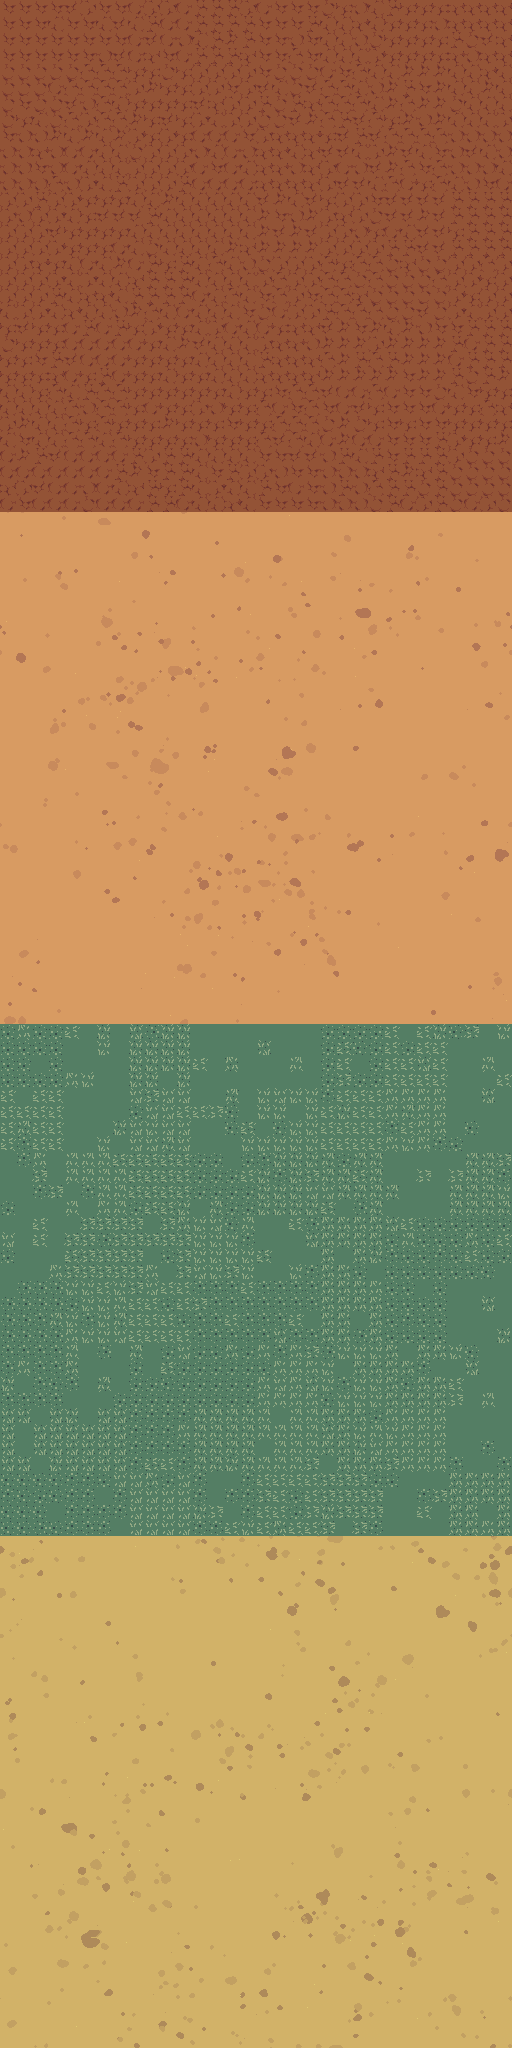
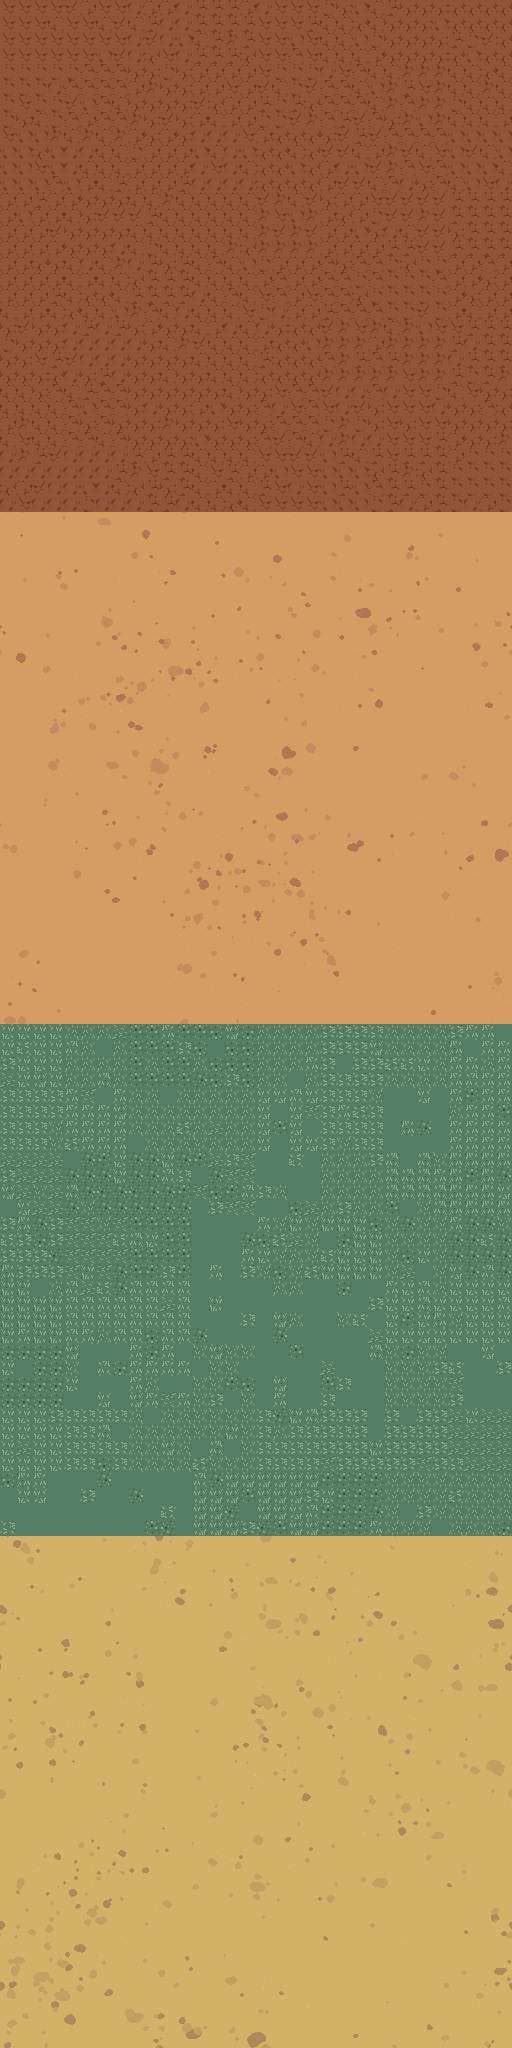
Survey every pack for ground before settling on grass and sand
Grass and sand were picked from the three packs I happened to open. This scans
all 56: each PNG reduced to its native scale, cut on a 16px grid, every opaque
cell classified by hue and measured for self-tiling.

The library is much narrower than the pack count suggests.

Grass exists once. topdownfarmlands, greenforest, greenvillage and greendungeon
all ship the same turf - the same flat rgb(84,126,100) under the same textured
variants. Of 57 distinct native grass cells in the whole library, 5 join
seamlessly. The rest are dungeon moss, cave crystal, or a brighter green in a
different palette that tiles as visible patches.

Sand exists once too. Only the desert pack has real sand ground. Everything else
the scan flagged was a UI panel, a book page, red roof tile, or the cobbled
Walls_street surface shared by seven town packs - which is real ground, but it
is pavement, and it belongs to TL.TOWN_FLOOR.

So the earlier choices were not a first-fit, they were the only fit. That is
worth knowing before buying more tileset packs: another one in this family adds
nothing, and only a pack in a different palette would widen the choice.

One real gain: greenforest holds a grass variant the farmlands sheet does not.
Grass goes from 4 cells to 5, and 24 baked variants to 30. The mosaic can now
draw cells from more than one sheet.

Two traps this walked into first, and both are now guarded in the tool rather
than left as lore:
[…]

diff --git a/tools/build_ground.py b/tools/build_ground.py
@@ -56,8 +56,12 @@ SEED = 20260909    # fixed, so rebuilds are byte-identical
 SOURCES = {
     "spots":     "PNG/spots.png",
     "farmland":  "All Tileset/16x16.png",
+    "forest":    "All Tileset/16x16.png",
     "farmyard":  "PNG/ground_grass_bricks.png",
 }
+# Two packs ship a file at the same path, so each is pinned to the pack folder
+# whose name contains this.
+SOURCE_PACK = {"farmland": "farmlands", "forest": "greenforest"}
 
 # The two tones in spots.png, measured off the sheet.
 TONE_DARK = (174, 138, 90)
@@ -74,15 +78,22 @@ TERRAINS = {
              "clusters": 22, "per": 13, "spread": 38, "loose": 78},
 
     # -- mosaic: interchangeable textured cells ---------------------------
-    # Grass: four variants of the same turf — bare, speckled, bladed, tufted.
-    "grass": {"kind": "mosaic", "sheet": "farmland",
-              "cells": [(0, 0), (0, 1), (0, 2), (0, 3)], "clump": 0.72,
-              "hue": 0, "sat": 1.00},
+    # Grass. Every pack delivered was surveyed for ground; the whole library
+    # holds exactly one outdoor turf, shared by the farmlands, green forest,
+    # green village and green dungeon tilesets. These six cells are all of it
+    # that joins seamlessly — the rest of the library's 57 native grass cells
+    # were measured and rejected. See docs/ART-PIPELINE.md.
+    "grass": {"kind": "mosaic",
+              "cells": [("farmland", 0, 0), ("farmland", 0, 1),
+                        ("farmland", 0, 2), ("farmland", 0, 3),
+                        ("forest", 0, 8)],    # one variant only greenforest has
+              "clump": 0.72, "hue": 0, "sat": 1.00},
     # Dirt: packed earth with small clumps. (14,10) and (21,7) are the same
     # cell in the sheet, so it is listed once.
-    "dirt":  {"kind": "mosaic", "sheet": "farmyard",
-              "cells": [(14, 9), (14, 10), (15, 9), (15, 10)], "clump": 0.65,
-              "hue": 0, "sat": 1.00},
+    "dirt":  {"kind": "mosaic",
+              "cells": [("farmyard", 14, 9), ("farmyard", 14, 10),
+                        ("farmyard", 15, 9), ("farmyard", 15, 10)],
+              "clump": 0.65, "hue": 0, "sat": 1.00},
 }
 
 
@@ -96,7 +107,10 @@ def locate(roots):
     """Find each source sheet under whichever of the given folders holds it."""
     found = {}
     for name, rel in SOURCES.items():
+        want = SOURCE_PACK.get(name)
         for root in roots:
+            if want and want not in root.name.lower():
+                continue
             hits = [p for p in root.rglob(Path(rel).name)
                     if p.as_posix().endswith(rel) and "__MACOSX" not in p.as_posix()]
             if hits:
@@ -106,8 +120,29 @@ def locate(roots):
     return found
 
 
+def check_native(name, im):
+    """Refuse a sheet that is an upscale of smaller art.
+
+    Most of these packs ship the same tileset at 1x/2x/3x/4x, and the RPG Maker
+    sheets are upscales too. Slicing one of those on a 16px grid yields cells
+    made of magnified pixels, which look right in isolation and wrong beside
+    everything else in the game. Checked, because it is invisible otherwise.
+    """
+    a = im.tobytes()
+    w, h = im.size
+    for k in (2, 3, 4):
+        if w % k or h % k:
+            continue
+        small = im.resize((w // k, h // k), Image.NEAREST)
+        if small.resize((w, h), Image.NEAREST).tobytes() == a:
+            raise SystemExit(
+                f"source '{name}' is an exact {k}x upscale of {w//k}x{h//k} art. "
+                f"Its 16px cells would be magnified pixels. Use the pack's "
+                f"native sheet instead.")
+
+
 def cell_of(sheet, rc):
-    r, c = rc
+    _, r, c = rc
     box = (c * CELL, r * CELL, (c + 1) * CELL, (r + 1) * CELL)
     if box[2] > sheet.size[0] or box[3] > sheet.size[1]:
         raise SystemExit(f"cell {rc} is outside the sheet ({sheet.size[0]//CELL}"
@@ -175,10 +210,38 @@ def tolerance(grain):
     return max(max(grain, 1.0) * 1.6, 8.0)
 
 
+# Two cells can join with a clean edge and still read as blocks, because what
+# shows is the difference in overall tone, not the join. A darker grass variant
+# passed the seam test at 11.88 against a tolerance of 12.36 and tiled as
+# obvious dark squares. So tone is checked separately from seams.
+TONE_SPREAD = 18.0
+
+
+def tone_gap(tiles, cells):
+    """Largest distance between any two cells' mean colours."""
+    means = [mean_rgb(t) for t in tiles]
+    worst, pair = 0.0, None
+    for i, a in enumerate(means):
+        for j, b in enumerate(means):
+            d = sum((a[k] - b[k]) ** 2 for k in range(3)) ** 0.5
+            if d > worst:
+                worst, pair = d, (cells[i], cells[j])
+    return worst, pair
+
+
 def build_variants(name, tiles, cells, strict):
     """The cells, plus every transform of them that keeps the set seamless."""
     grain = sum(mean_step(t) for t in tiles) / len(tiles)
     tol = tolerance(grain)
+
+    gap, gpair = tone_gap(tiles, cells)
+    if gap > TONE_SPREAD:
+        msg = (f"'{name}': cells {gpair[0]} and {gpair[1]} are {gap:.1f} apart "
+               f"in tone (limit {TONE_SPREAD:.0f}). They would tile as visible "
+               f"patches however clean the join is. Drop one, or pass --loose.")
+        if strict:
+            raise SystemExit(msg)
+        log(f"  !! {msg}")
 
     worst, pair = worst_seam(tiles)
     if worst > tol:
@@ -196,7 +259,8 @@ def build_variants(name, tiles, cells, strict):
         if worst_seam(trial)[0] <= tol:
             variants = trial
             kept.append(label)
-    log(f"  ok {name:6s} {len(tiles)} cells, seam {worst:5.2f} <= {tol:5.2f}"
+    log(f"  ok {name:6s} {len(tiles)} cells, seam {worst:5.2f} <= {tol:5.2f}, "
+        f"tone {gap:4.1f} <= {TONE_SPREAD:.0f}"
         f"  +{len(variants) - len(tiles):2d} from " +
         (", ".join(kept) if kept else "no transforms (edges too asymmetric)"))
     return variants
@@ -381,6 +445,8 @@ def main():
 
     log("sources:")
     sheets = locate(roots)
+    for name, im in sheets.items():
+        check_native(name, im)
 
     rng = random.Random(SEED)
     names = sorted(TERRAINS)
@@ -401,10 +467,14 @@ def main():
                     f"{len(pools['soft'])} soft blobs")
             ready.append((name, cfg, None))
         else:
-            if cfg["sheet"] not in sheets:
-                log(f"  -- {name}: no {SOURCES[cfg['sheet']]} supplied, skipping")
+            need = {rc[0] for rc in cfg["cells"]}
+            missing = need - set(sheets)
+            if missing:
+                log(f"  -- {name}: no " +
+                    ", ".join(SOURCES[m] for m in sorted(missing)) +
+                    " supplied, skipping")
                 continue
-            tiles = [cell_of(sheets[cfg["sheet"]], rc) for rc in cfg["cells"]]
+            tiles = [cell_of(sheets[rc[0]], rc) for rc in cfg["cells"]]
             ready.append((name, cfg, tiles))
     if not ready:
         sys.exit("No terrains could be built — check the pack folders given.")

diff --git a/docs/ART-PIPELINE.md b/docs/ART-PIPELINE.md
@@ -409,6 +409,34 @@ speckling, which is the one thing sand never looks like.
 
 `SEED` in the tool is fixed, so a rebuild is byte-identical.
 
+### Where the ground art came from
+
+Every one of the 56 delivered packs was scanned for grass and sand ground —
+each PNG reduced to its native scale, cut on a 16px grid, every fully-opaque
+cell classified by hue and measured for self-tiling. The result is worth
+recording because it is smaller than it looks:
+
+- **Grass: the library holds exactly one outdoor turf.** The farmlands, green
+  forest, green village and green dungeon tilesets all ship the *same* art —
+  flat base `rgb(84,126,100)` with the same textured variants over it. Of 57
+  distinct native grass cells across every pack, 5 join seamlessly; the rest are
+  dungeon moss, cave crystal, or a brighter green from a different palette that
+  tiles as visible patches. There is no second grass to choose between.
+- **Sand: the desert pack is the only true sand ground.** Everything else the
+  scan turned up as "sand" was a UI panel, a book page, red roof tile, or the
+  cobbled `Walls_street` surface shared by the town packs — that last one is
+  real ground, but it is pavement, and it belongs to `TL.TOWN_FLOOR`, not here.
+
+Two traps this scan walked into first, both worth knowing:
+
+- **Upscaled sheets.** Most packs ship the same tileset at 1×/2×/3×/4×, and the
+  RPG Maker `A5` sheets are upscales too — `RF_Green Forest_A5.png` is an exact
+  3× of 128×256 art. Slicing one on a 16px grid yields cells built from
+  magnified pixels that look fine alone and wrong beside everything else. A
+  first pass "found" 17 extra grass variants this way; all were artefacts. The
+  tool now refuses any source that is an exact upscale.
+- **Hue tests that are too loose.** `r >= g >= b` calls red roof tiles sand.
+
 ### Mutual seams, and why cells get flipped
 
 A mosaic is only safe if every cell joins every other cell invisibly. The tool
@@ -433,6 +461,18 @@ grass  4 cells, seam  2.85 <= 12.52   +20 from flip-h, flip-v, rot-90, rot-180, 
 Dirt's edges are asymmetric enough that flip-v and rot-180 push the join over
 tolerance, so they are dropped. That is measured per terrain, not assumed.
 
+### Tone, which is a separate test
+
+A clean join is not sufficient. Two cells can meet edge-to-edge perfectly and
+still read as blocks, because what shows at a glance is the difference in
+overall tone, not the join. A darker grass variant passed the seam test at
+11.88 against a tolerance of 12.36 and tiled as obvious dark squares — the exact
+grid artefact the mosaic exists to avoid.
+
+So the mean colours of a set are checked separately and must sit within 18 of
+each other. That cell measures 28.5 from its neighbours and is now rejected by
+name. The current sets: grass 11.5, dirt 1.4.
+
 ### Terrains
 
 Sand and dust are the same sand. The badlands is the same grains under a redder sun, so
@@ -442,7 +482,7 @@ instead of flattening it.
 
 | Name | Kind | Tile | Tone | Base |
 |---|---|---|---|---|
-| `grass` | mosaic | `TL.GRASS`, `TL.FLOWERS` | — | `#598166` — farmlands turf |
+| `grass` | mosaic | `TL.GRASS`, `TL.FLOWERS` | — | `#598166` — farmlands turf, plus one greenforest variant |
 | `dirt` | mosaic | `TL.DIRT` | — | `#8f4f35` — farmyard packed earth |
 | `sand` | scatter | `TL.SAND` | — | `#d2b268` — the desert pack's sand |
 | `dust` | scatter | `BL.DUSTFLOOR` | −13° hue, ×1.12 sat | `#d89b62` — orange-shifted |

diff --git a/docs/ASSET-INVENTORY.md b/docs/ASSET-INVENTORY.md
@@ -141,10 +141,34 @@ seamless, so `tools/build_ground.py` lays them as a random mosaic on one
 wrap-seamless texture, the same surface the sand uses. See `docs/ART-PIPELINE.md`.
 
 **Not yet: `TL.STONE` (9.4%), `TL.TOWN_FLOOR` (14.3%), `TL.ROAD`, `TL.WATER`.**
-Art exists for all four — the farm pack ships cobble and water, and
-`freepathandroad` ships five road styles. The terrain-*edge* sets in these packs
-stay unusable until the game has an autotiling concept; it currently has none,
-only a 4px colour blend on grass.
+Art exists for all four — the farm pack ships cobble and water,
+`freepathandroad` ships five road styles, and a `Walls_street` sheet with the
+same cobbled surface appears in seven town packs (tavern, chapel, guild hall,
+mage tower, blacksmith, nobles manor, training arena), which makes it the
+obvious `TL.TOWN_FLOOR`. The terrain-*edge* sets stay unusable until the game
+has an autotiling concept; it currently has none, only a 4px colour blend on
+grass.
+
+### Ground survey — all 56 packs
+
+Every pack was scanned for grass and sand ground: each PNG reduced to native
+scale, cut on a 16px grid, every opaque cell classified by hue and measured for
+self-tiling. The library is narrower than the pack count suggests.
+
+**Grass exists once.** `topdownfarmlands`, `greenforest`, `greenvillage` and
+`greendungeon` ship the *same* turf — flat `rgb(84,126,100)` with the same
+textured variants. Of 57 distinct native grass cells in the whole library, 5
+join seamlessly and are in use. The rest are dungeon moss, cave crystal, or a
+brighter green (`rgb(110,162,75)` in the farm pack, `rgb(122,173,85)` in the
+mage tower) that tiles as visible patches against the main turf.
+
+**Sand exists once too.** Only `deserttileset` has real sand ground. Everything
+else the scan flagged was a UI panel, a book page, red roof tile, or pavement.
+`pixelarttrainingarena` carries the identical flat `rgb(210,178,104)`,
+confirming the shared palette but adding nothing.
+
+So the current choices are not a first-fit — they are the only fit. More
+tileset packs would not widen this; a pack in a *different* palette would.
 
 ---
 
